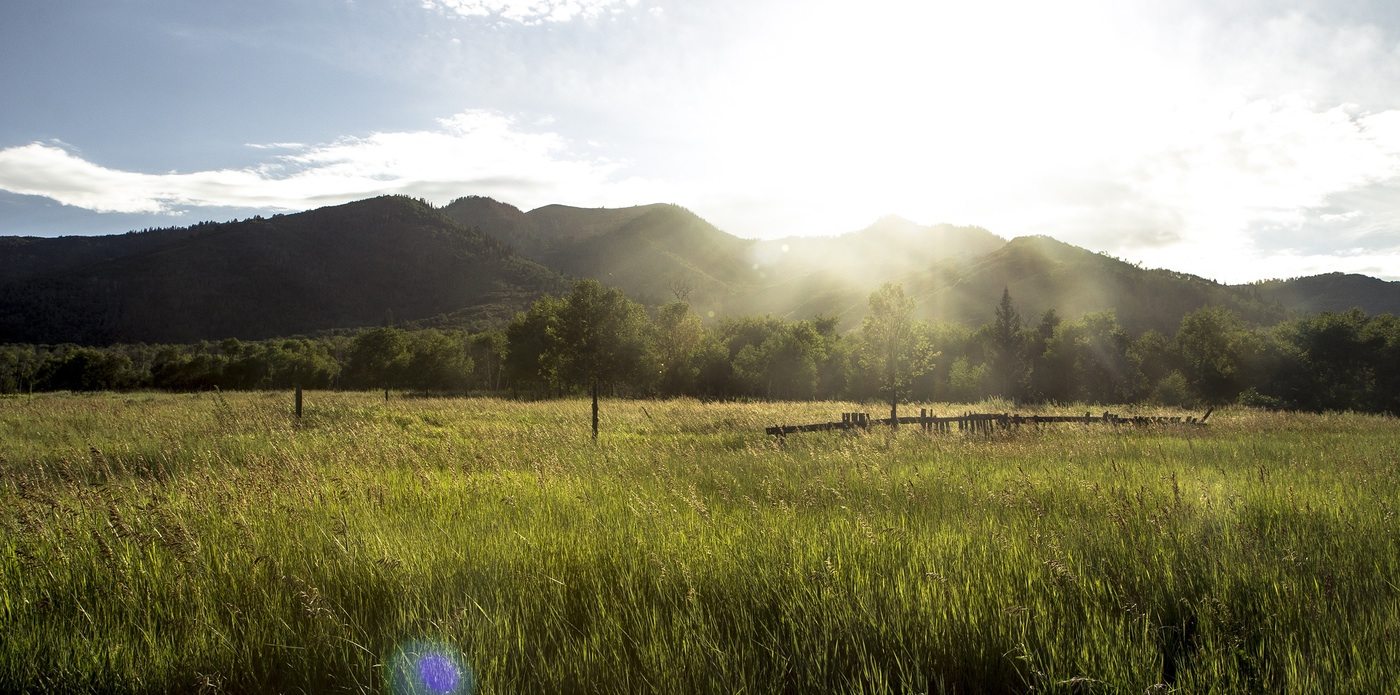
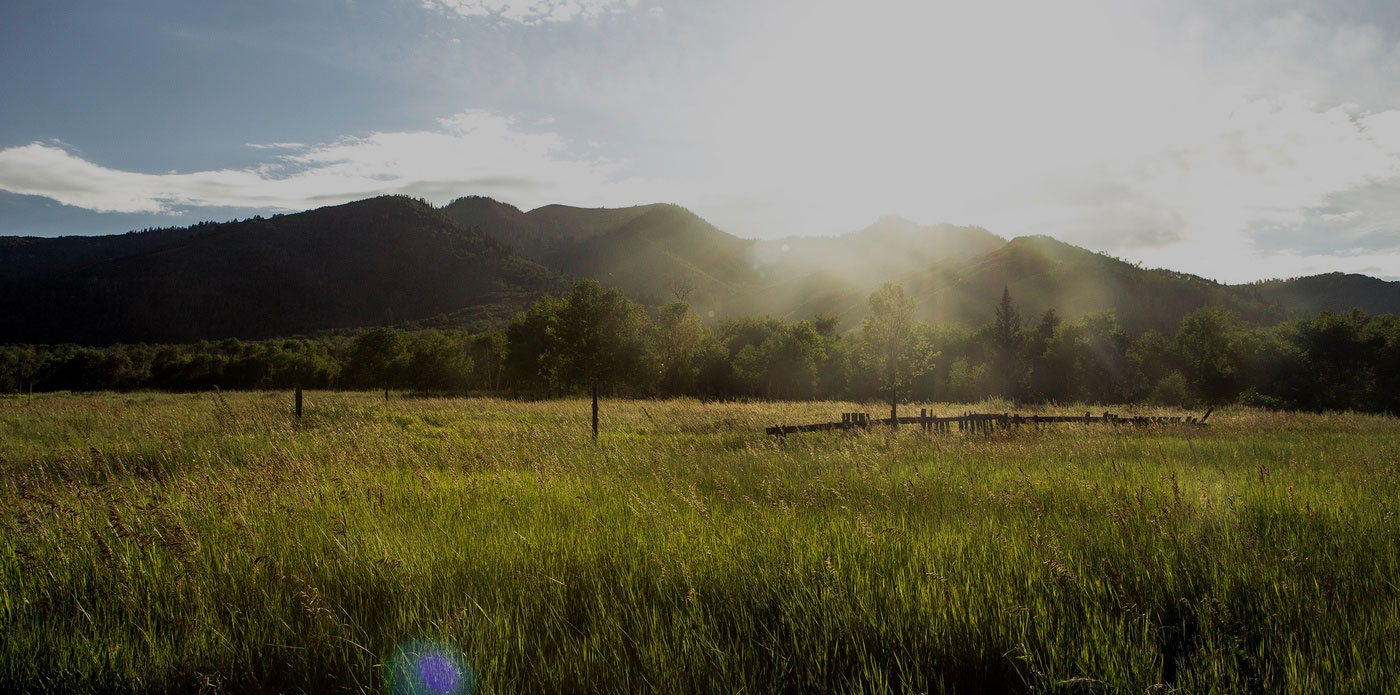
Updates background, removes a few links and changes minor stuff

diff --git a/index.html b/index.html
@@ -16,7 +16,6 @@
 
         <div class="links pull-right">
           <a href="#" class="pro">Professionels&nbsp;?</a>
-          <a href="#">Abonné au journal</a>
           <a href="#">Une question&nbsp;?</a>
         </div>
 
@@ -47,17 +46,17 @@
 
                 <th>
                   <h4>100&#8239;% numérique</h4>
-                  <a href="#">En savoir plus</a>
+                  <a class="small" href="#">En savoir plus</a>
                 </th>
 
                 <th>
                   <h4>Offre duo</h4>
-                  <a href="#">En savoir plus</a>
+                  <a class="small" href="#">En savoir plus</a>
                 </th>
 
                 <th>
                   <h4>Offre intégrale</h4>
-                  <a href="#">En savoir plus</a>
+                  <a class="small" href="#">En savoir plus</a>
                 </th>
               </tr>
             </thead>
@@ -162,6 +161,18 @@
           </div>
 
           <div class="row collapse">
+
+            <div class="col-1-3">
+              <div class="card">
+                <h4>Offre intégrale + tablette</h4>
+                <a href="#">En savoir plus</a>
+
+                <h3>29,90&nbsp;&euro;<small>/mois</small></h3>
+                <a href="#" class="btn btn-outline">S'abonner</a>
+                <em>Offre 24 mois</em>
+              </div>
+            </div>
+
             <div class="col-1-3">
               <div class="card">
                 <h4>100&#8239;% numérique 1&nbsp;an</h4>
@@ -175,23 +186,12 @@
 
             <div class="col-1-3">
               <div class="card">
-                <h4>Professionelle</h4>
+                <h4>Professionel ?</h4>
                 <a href="#">En savoir plus</a>
 
                 <h3>&nbsp;</h3>
-                <a href="#" class="btn btn-outline">S'abonner</a>
+                <a href="#" class="btn btn-outline">Nous contacter</a>
                 <em>Offre sans engagement</em>
-              </div>
-            </div>
-
-            <div class="col-1-3">
-              <div class="card">
-                <h4>Offre intégrale + tablette</h4>
-                <a href="#">En savoir plus</a>
-
-                <h3>29,90&nbsp;&euro;<small>/mois</small></h3>
-                <a href="#" class="btn btn-outline">S'abonner</a>
-                <em>Offre 24 mois</em>
               </div>
             </div>
 
@@ -217,9 +217,15 @@
             </div>
 
             <div class="col-1-2">
+              <strong>Je suis abonné papier, je souhaite activer mon accès numérique, comment faire ?</strong>
+              <p>Vous devez pour cela associer votre compte sudouest.fr à votre abonnement depuis la page <a href="http://profil.sudouest.fr/journalnumerique">http://profil.sudouest.fr/journalnumerique</a>.</p>
+            </div>
+
+            <div class="col-1-2">
               <strong>Quels sont les modes de paiement acceptés ?</strong>
               <p>Vous pouvez payer par carte bancaire ou par RIB</p>
             </div>
+
           </div>
         </div>
       </section>
@@ -233,21 +239,21 @@
               <div class="card grey">
                 <h5>Par téléphone</h5>
                 du lundi au vendredi<br/>
-                <a href="tel:0557290933">05 57 29 09 33</a>
+                <a class="small" href="tel:0557290933">05 57 29 09 33</a>
               </div>
             </div>
 
             <div class="col-1-3">
               <div class="card grey">
                 <h5>Par email</h5>
-                <a href="mailto:abonnement@sudouest.fr">abonnement@sudouest.fr</a>
+                <a class="small" href="mailto:abonnement@sudouest.fr">abonnement@sudouest.fr</a>
               </div>
             </div>
 
             <div class="col-1-3">
               <div class="card grey">
                 <h5>Consultez notre <abbr title="Questions fréquemments posées">FAQ</abbr></h5>
-                <a href="http://profil.sudouest.fr/faq">http://profil.sudouest.fr/faq</a>
+                <a class="small" href="http://profil.sudouest.fr/faq">http://profil.sudouest.fr/faq</a>
               </div>
             </div>
           </div>

diff --git a/index.css b/index.css
@@ -16,6 +16,10 @@ a {
   color: #4691B6;
   font-weight: 300;
   text-decoration: none;
+}
+
+a.small
+{
   font-size: 0.8em;
 }
 
@@ -560,7 +564,7 @@ section.grey .btn {
   }
 
   header .links a.pro {
-    float: none;
+    display: none;
   }
 
   header .content {
